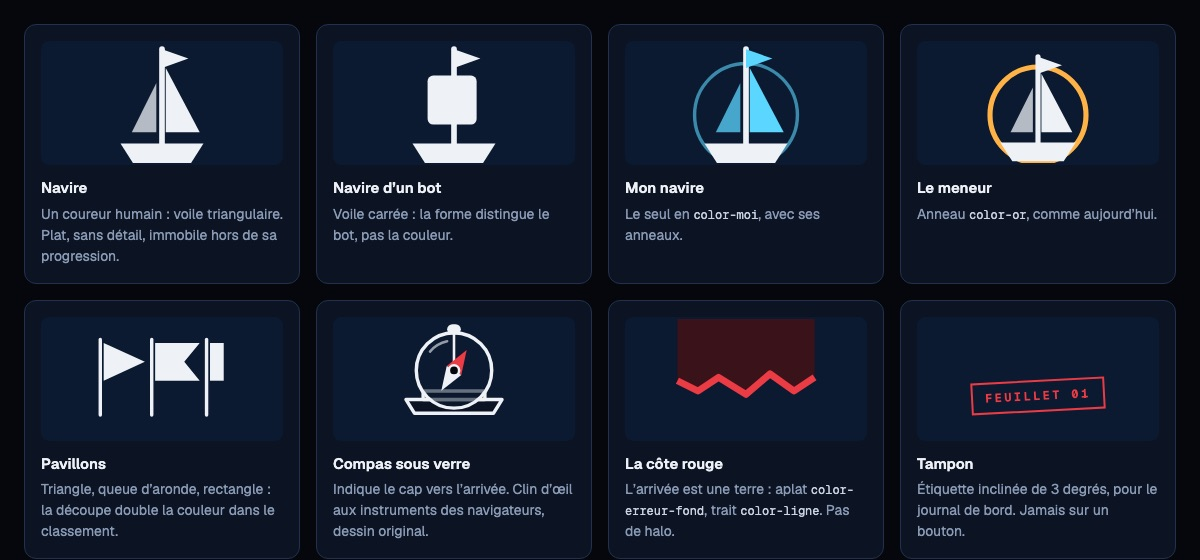
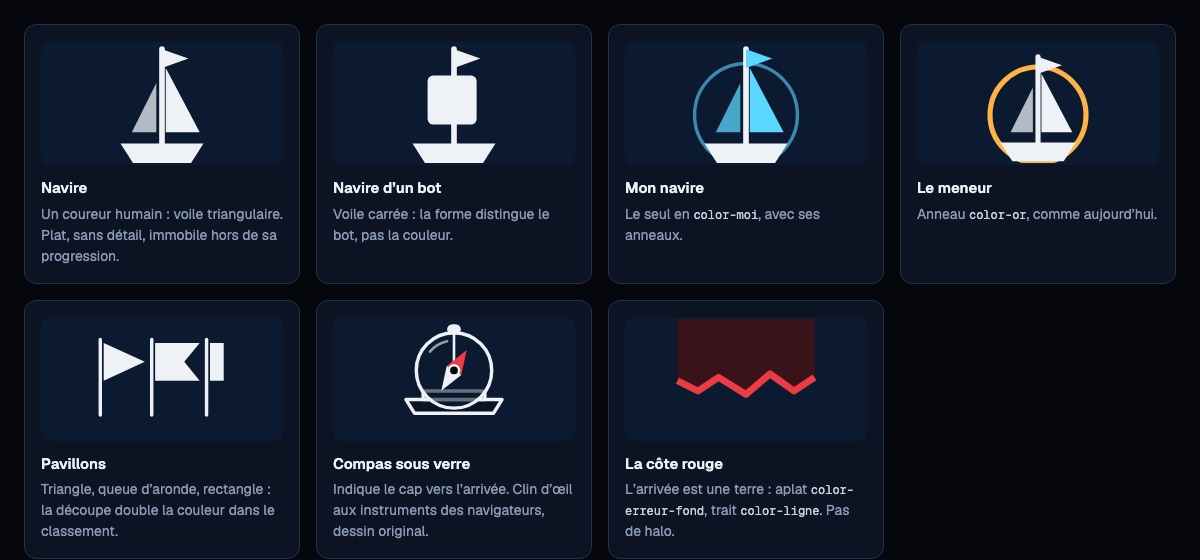
docs(da): remove the C2 stamp from the vocabulary board and note the pennant cut
The archived vocabulary board carried a piece of the C2 direction, which
was not approved. The README now records that the integrated pennant
keeps the runner-kind shape instead of the three cuts drawn on the board.

Changed region(s): [[0.74, 0.5161, 0.9867, 1.0]]

diff --git a/docs/da/v2/maquettes/vocabulaire-pavillons.html b/docs/da/v2/maquettes/vocabulaire-pavillons.html
@@ -23,7 +23,6 @@
 .lp-line { fill: none; stroke: var(--color-ecume); stroke-width: 1.5; stroke-linecap: round; }
 .lp-n1 { fill: var(--color-ligne); } .lp-n2 { fill: var(--color-ecume); }
 
-.stamp { display: inline-block; font-family: var(--font-mono); font-size: 12px; font-weight: 700; letter-spacing: 0.2em; text-transform: uppercase; color: var(--color-ligne); border: 2px solid var(--color-ligne); padding: 5px 12px; transform: rotate(-3deg); }
 .tab { display: inline-block; background: var(--color-ecume); color: var(--color-abysse); padding: 4px 12px 2px; transform: rotate(-2deg); transform-origin: left bottom; }
 .hard { box-shadow: 6px 6px 0 var(--color-houle); }
 
@@ -45,6 +44,6 @@
   <rect class="lp-n2" x="-4" y="-27" width="8" height="6" rx="3"/>
   <g transform="rotate(-58)"><path class="lp-n1" d="M0 -5 L14 0 L0 5 Z"/><path class="lp-n2" d="M0 -5 L-14 0 L0 5 Z"/></g>
   <circle r="3" fill="var(--color-abysse)" stroke="var(--color-ecume)" stroke-width="1.5"/>
-</g></svg></div><strong>Compas sous verre</strong><span>Indique le cap vers l’arrivée. Clin d’œil aux instruments des navigateurs, dessin original.</span></li><li><div class="fig"><svg viewBox="-40 -40 80 70" width="150" height="120" aria-hidden="true" fill="none"><path class="land" d="M-40 -40 H40 V-6 L28 2 L14 -8 L0 4 L-16 -6 L-28 2 L-40 -4 Z"/><path class="coastline" d="M-40 -4 L-28 2 L-16 -6 L0 4 L14 -8 L28 2 L40 -6"/></svg></div><strong>La côte rouge</strong><span>L’arrivée est une terre : aplat <code>color-erreur-fond</code>, trait <code>color-ligne</code>. Pas de halo.</span></li><li><div class="fig"><div style="padding-top:34px"><span class="stamp">Feuillet 01</span></div></div><strong>Tampon</strong><span>Étiquette inclinée de 3 degrés, pour le journal de bord. Jamais sur un bouton.</span></li></ul>
+</g></svg></div><strong>Compas sous verre</strong><span>Indique le cap vers l’arrivée. Clin d’œil aux instruments des navigateurs, dessin original.</span></li><li><div class="fig"><svg viewBox="-40 -40 80 70" width="150" height="120" aria-hidden="true" fill="none"><path class="land" d="M-40 -40 H40 V-6 L28 2 L14 -8 L0 4 L-16 -6 L-28 2 L-40 -4 Z"/><path class="coastline" d="M-40 -4 L-28 2 L-16 -6 L0 4 L14 -8 L28 2 L40 -6"/></svg></div><strong>La côte rouge</strong><span>L’arrivée est une terre : aplat <code>color-erreur-fond</code>, trait <code>color-ligne</code>. Pas de halo.</span></li></ul>
 </body>
 </html>

diff --git a/docs/da/v2/README.md b/docs/da/v2/README.md
@@ -48,6 +48,7 @@ Inchangés : connexion, erreur d'authentification, entrée d'invité, invitation
 
 - Ce sont des dessins statiques. Les contrôles faits dessus ([couverture](couverture.md)) ne valent pas pour l'application : chaque écran est vérifié de nouveau une fois intégré.
 - Dans l'en-tête des maquettes, les liens FR / EN sont dessinés à 22 px de haut. C'est un raccourci de dessin : l'application garde son en-tête et ses cibles de 44 px.
+- La planche `vocabulaire-pavillons` montre trois découpes de fanion (triangle, queue d'aronde, rectangle). À l'intégration, le fanion garde la forme du type de coureur (triangle pour un humain, carré pour un bot) et le tracé de sa route est repris par un trait sous le fanion : une queue d'aronde se confondrait avec le rectangle d'un bot. Cet écart à la planche est en étude.
 - Les noms, les vitesses et les rangs des maquettes sont des exemples. L'application n'affiche que ses vraies données.
 - `maquettes/jetons-lecture.css` est une copie de lecture des jetons pour ouvrir les maquettes hors de l'application. Elle n'est jamais importée par l'application.
 
